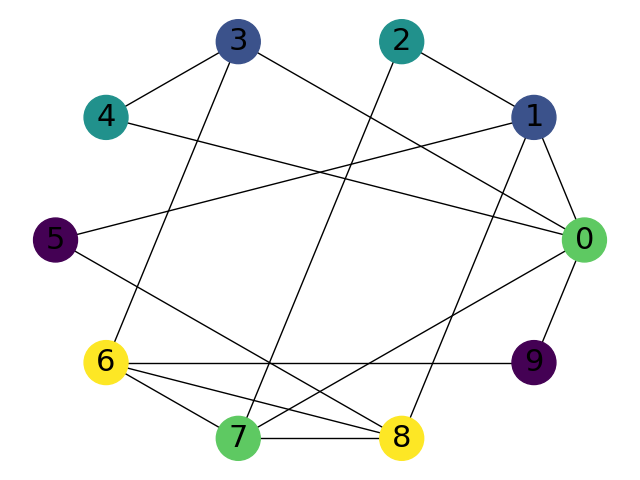
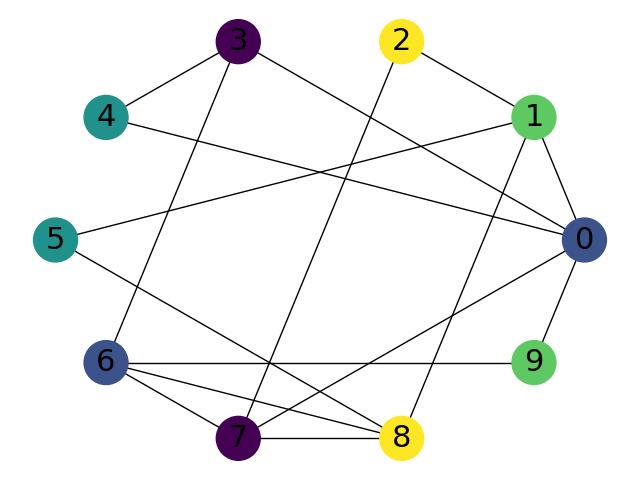
alg

diff --git a/main.py b/main.py
@@ -9,21 +9,9 @@ import matplotlib
 import random
 import math
 from fastapi.middleware.cors import CORSMiddleware
-
-matrix = [[0,1,0,1,1,0,0,1,0,1],
-     [1,0,1,0,0,1,0,0,1,0],
-     [0,1,0,0,0,0,0,1,0,0],
-     [1,0,0,0,1,0,1,0,0,0],
-     [1,0,0,1,0,0,0,0,0,0],
-     [0,1,0,0,0,0,0,0,1,0],
-     [0,0,0,1,0,0,0,1,1,1],
-     [1,0,1,0,0,0,1,0,1,0],
-     [0,1,0,0,0,1,1,1,0,0],
-     [1,0,0,0,0,0,1,0,0,0]]
 app = FastAPI()
 origins = ["*"]
 
-# Добавляем middleware для CORS
 app.add_middleware(
     CORSMiddleware,
     allow_origins=origins,
@@ -49,92 +37,49 @@ def paint_graph(graph: List[List[int]]):
     nx.draw_circular(G, node_color=colorlist,font_color = "black", node_size=1000,font_size=22, with_labels=True)
     plt.savefig(path_paint, format="PNG")
     plt.clf()
-    headers = {"Count": len(set(colorlist))}
+    headers = {"Count": str(len(set(colorlist)))}
     return FileResponse(path=path_paint, headers=headers)
 
 def paint_graph(graph:List[List[int]]):
-    return simulated_annealing(graph, temperature=100 , cooling_rate=0.95).values()
+    return simulated_annealing(graph, initial_temperature=100 , cooling_rate=0.95)
     
-    
 
-import random
-import math
+def simulated_annealing(adjacency_matrix, initial_temperature, cooling_rate):
+    num_nodes = len(adjacency_matrix)
+    current_solution = initialize_solution(num_nodes)  
+    current_cost = calculate_cost(adjacency_matrix, current_solution) 
+    temperature = initial_temperature
 
-def initialize_colors(graph):
-    """
-    Initialize random colors for each node in the graph.
-    Colors are represented as integers ranging from 1 to the maximum degree of the graph.
-    """
-    colors = {}
-    num_nodes = len(graph)
-    for node in range(num_nodes):
-        colors[node] = random.randint(1, max_degree(graph))
-    return colors
+    while temperature > 0.1:  
+        for i in range(100): 
+            new_solution = generate_neighbor_solution(current_solution)
+            new_cost = calculate_cost(adjacency_matrix, new_solution) 
 
-def max_degree(graph):
-    """
-    Calculate and return the maximum degree among all nodes in the graph.
-    """
-    max_degree = 0
-    num_nodes = len(graph)
-    for node in range(num_nodes):
-        degree = sum(graph[node])
-        if degree > max_degree:
-            max_degree = degree
-    return max_degree
+            if new_cost < current_cost:
+                current_solution = new_solution
+                current_cost = new_cost
+            num_colors_used = len(set(current_solution))
+            if num_colors_used == num_nodes and current_cost == 0:
+                return current_solution
+        temperature *= cooling_rate
 
-def calculate_cost(graph, colors):
-    """
-    Calculate the total number of conflicts (edges between nodes of the same color) in the graph for a given coloring.
-    """
+    return current_solution
+
+def initialize_solution(num_nodes):
+    solution = [-1] * num_nodes
+    return solution
+
+def calculate_cost(adjacency_matrix, solution):
     cost = 0
-    num_nodes = len(graph)
-    for node in range(num_nodes):
-        node_color = colors[node]
-        for neighbor in range(num_nodes):
-            if graph[node][neighbor] == 1 and colors[neighbor] == node_color:
+    num_nodes = len(adjacency_matrix)
+    for i in range(num_nodes):
+        for j in range(i + 1, num_nodes):
+            if adjacency_matrix[i][j] == 1 and solution[i] == solution[j]:
                 cost += 1
     return cost
 
-def kempe_chain_swap(colors, node_a, node_b):
-    """
-    Perform a Kempe chain swap between two nodes in the coloring.
-    Swap the colors of nodes that have either color color_a or color_b.
-    """
-    color_a = colors[node_a]
-    color_b = colors[node_b]
-    for node in colors:
-        if colors[node] == color_a:
-            colors[node] = color_b
-        elif colors[node] == color_b:
-            colors[node] = color_a
-
-def simulated_annealing(graph, temperature, cooling_rate):
-    """
-    Implement the simulated annealing algorithm to find an optimal coloring for the graph.
-    """
-    num_nodes = len(graph)
-    current_solution = initialize_colors(graph)
-    best_solution = current_solution.copy()
-    current_cost = calculate_cost(graph, current_solution)
-    best_cost = current_cost
-
-    while temperature > 0.01:
-        new_solution = current_solution.copy()
-        node_a = random.randint(0, num_nodes - 1)
-        node_b = random.randint(0, num_nodes - 1)
-
-        kempe_chain_swap(new_solution, node_a, node_b)
-        new_cost = calculate_cost(graph, new_solution)
-
-        if new_cost < current_cost or math.exp((current_cost - new_cost) / temperature) > random.random():
-            current_solution = new_solution
-            current_cost = new_cost
-
-        if new_cost < best_cost:
-            best_solution = new_solution
-            best_cost = new_cost
-
-        temperature *= cooling_rate
-
-    return best_solution
+def generate_neighbor_solution(solution):
+    new_solution = solution.copy()
+    node = random.randint(0, len(solution) - 1)
+    new_solution[node] = random.randint(0, max(solution) + 1)
+    return new_solution
